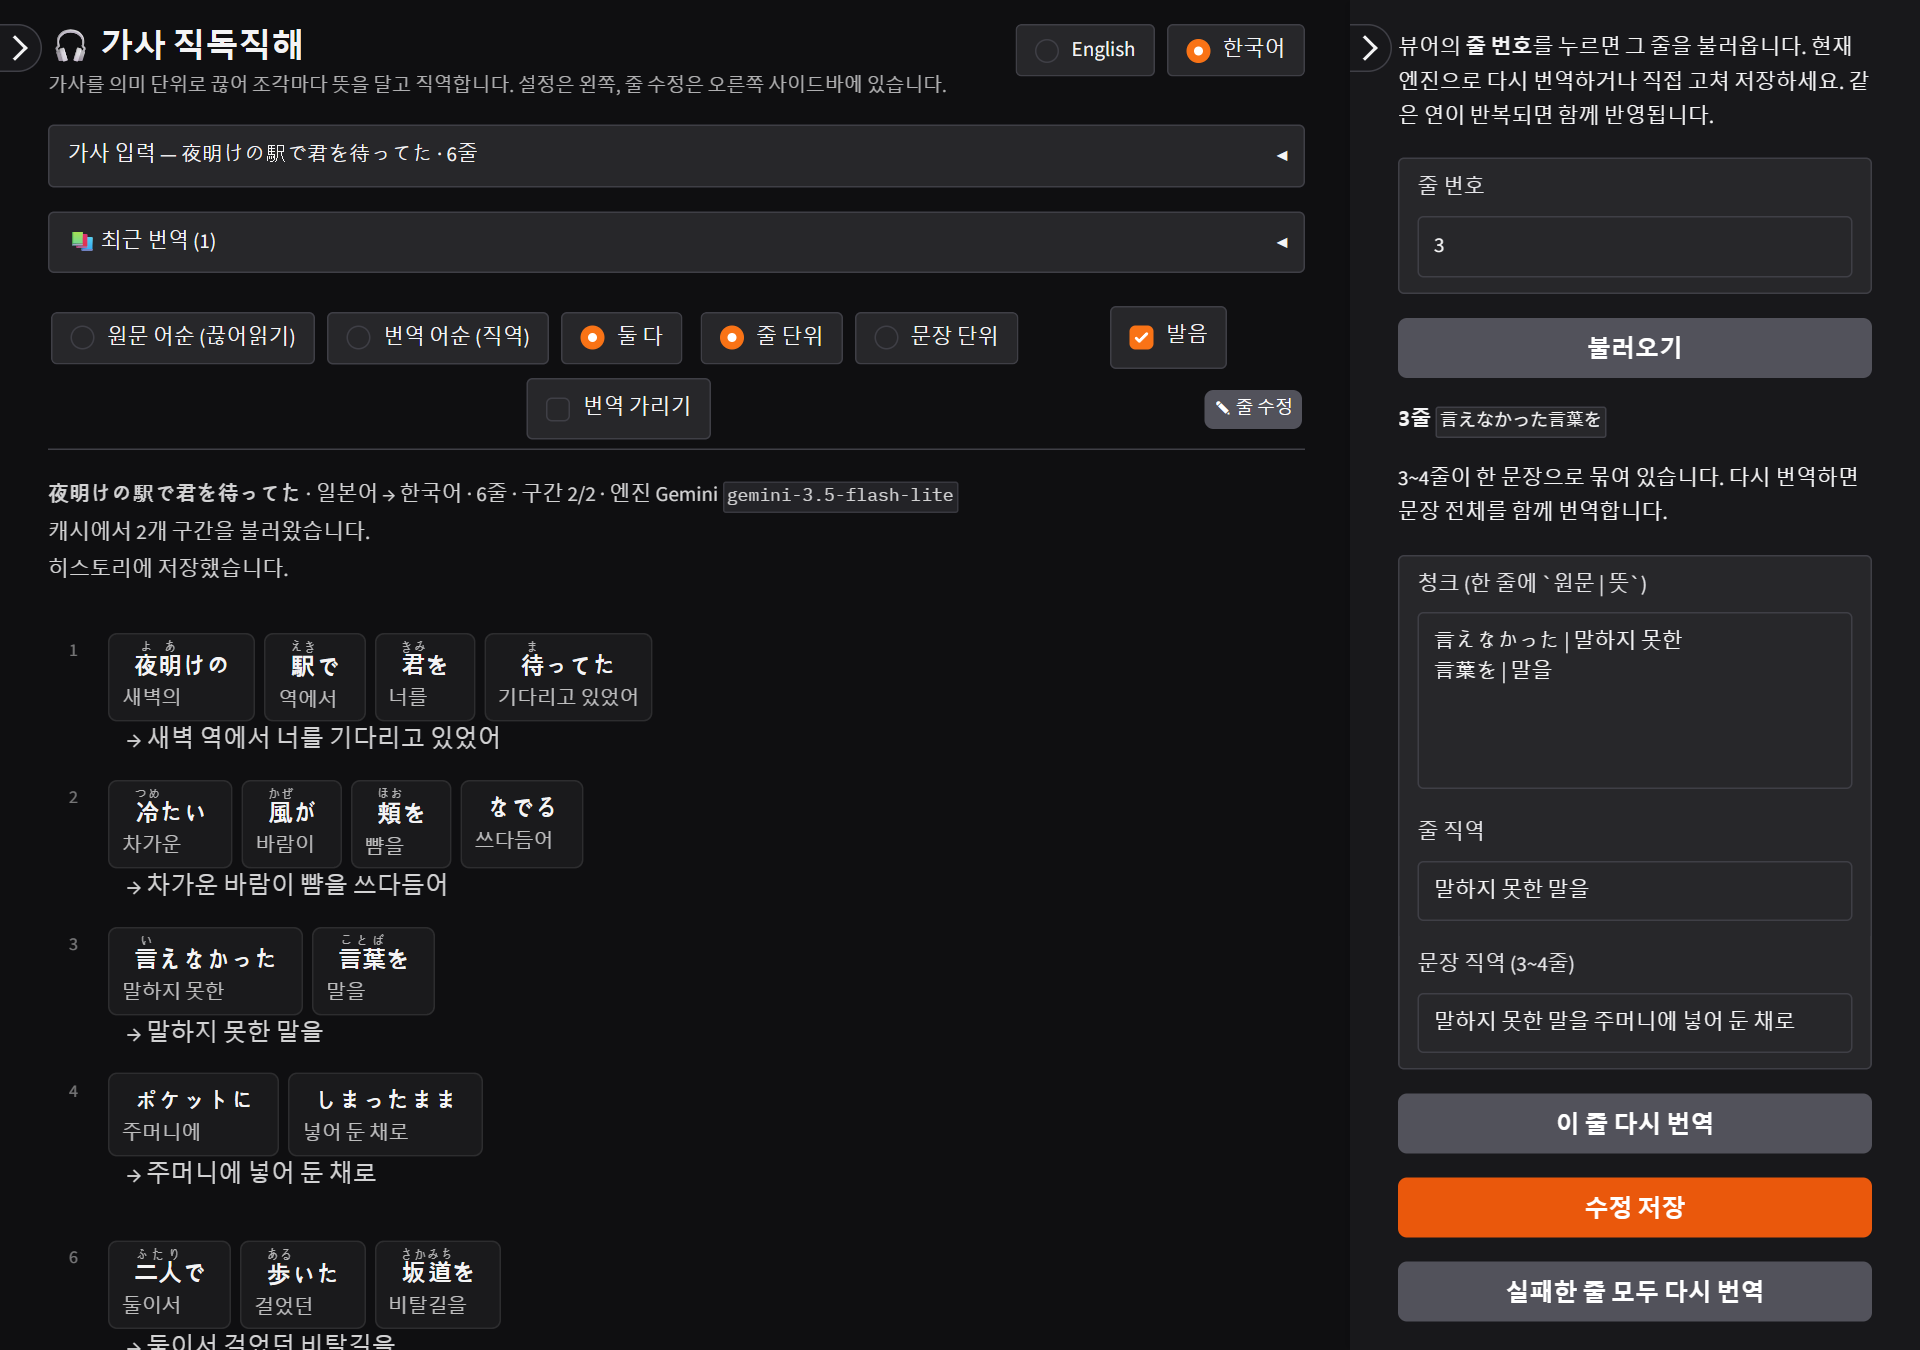
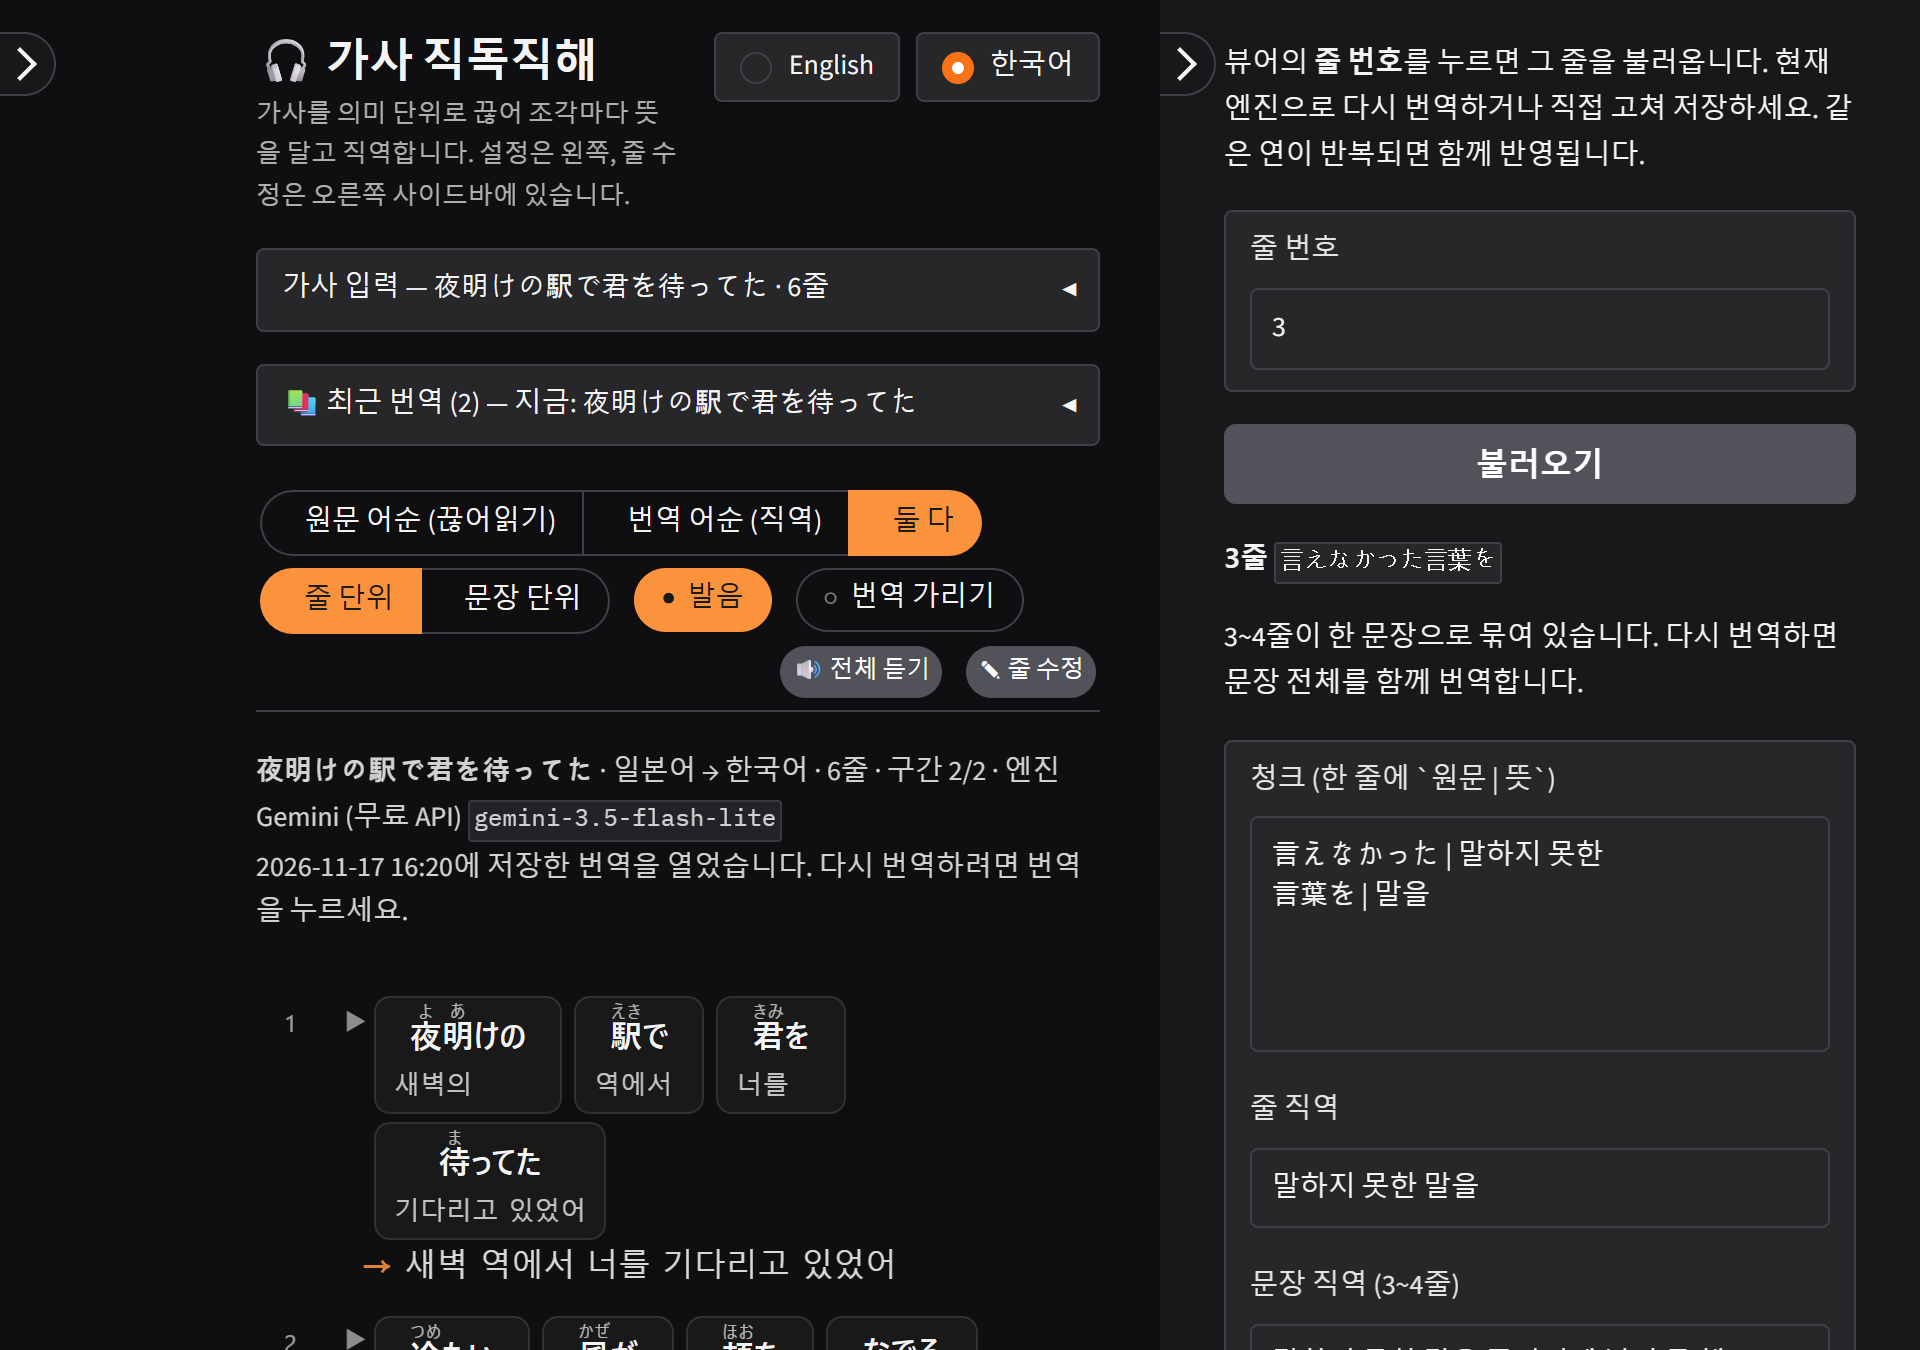
docs: 새 디자인으로 README 스크린샷 다시 찍기, 다시 찍는 도구 추가
- tools/screenshots/make_history.py: 엔진을 부르지 않고 데모 히스토리와 내보내기 화면을 만든다
- tools/screenshots/capture.mjs: 헤드리스 Chrome으로 영어·한국어 화면을 찍는다(추가 패키지 없음)
- 뷰어·줄 수정·듣기·폰·내보내기 패널·모바일 HTML·곡 목록·이미지 16장 갱신

diff --git a/tools/screenshots/make_history.py b/tools/screenshots/make_history.py
@@ -1,0 +1,125 @@
+"""README 스크린샷용 데모 히스토리를 만든다 — 엔진을 부르지 않고, 직접 쓴 결과로 저장한다.
+
+가사는 이 데모를 위해 새로 쓴 문장이다. 사용:
+    python tools/screenshots/make_history.py <폴더>     (기본: exports/demo)
+<폴더>/history-en, <폴더>/history-ko 에 곡마다 JSON을 만든다. 앱은 LYRICS_HISTORY_DIR로 그 폴더를 가리킨다.
+"""
+
+from __future__ import annotations
+
+import json
+import sys
+from pathlib import Path
+
+sys.path.insert(0, str(Path(__file__).resolve().parents[2]))
+
+from lyrics_tool.backends import Backend  # noqa: E402
+from lyrics_tool.core import Translator  # noqa: E402
+from lyrics_tool.history import History  # noqa: E402
+
+MODEL = "gemini-3.5-flash-lite"
+
+# 곡: (제목, [(원문 줄, [(어구, 한국어, 영어)], 한국어 직역, 영어 직역) 또는 ""(빈 줄)], [(첫 줄, 끝 줄, 한국어, 영어)])
+SONGS = [
+    ("夜明けの駅で君を待ってた", [
+        ("夜明けの駅で君を待ってた",
+         [("夜明けの", "새벽의", "at dawn"), ("駅で", "역에서", "at the station"), ("君を", "너를", "you"),
+          ("待ってた", "기다리고 있었어", "was waiting for")],
+         "새벽 역에서 너를 기다리고 있었어", "I was waiting for you at the station at dawn"),
+        ("冷たい風が頬をなでる",
+         [("冷たい", "차가운", "cold"), ("風が", "바람이", "wind"), ("頬を", "뺨을", "my cheek"),
+          ("なでる", "쓰다듬어", "strokes")],
+         "차가운 바람이 뺨을 쓰다듬어", "A cold wind strokes my cheek"),
+        ("言えなかった言葉を",
+         [("言えなかった", "말하지 못한", "that I couldn't say"), ("言葉を", "말을", "the words")],
+         "말하지 못한 말을", "the words I couldn't say"),
+        ("ポケットにしまったまま",
+         [("ポケットに", "주머니에", "in my pocket"), ("しまったまま", "넣어 둔 채로", "still tucked away")],
+         "주머니에 넣어 둔 채로", "still tucked away in my pocket"),
+        "",
+        ("二人で歩いた坂道を",
+         [("二人で", "둘이서", "together"), ("歩いた", "걸었던", "we walked"), ("坂道を", "비탈길을", "the slope")],
+         "둘이서 걸었던 비탈길을", "the slope we walked together"),
+        ("今日はひとりで登ってく",
+         [("今日は", "오늘은", "today"), ("ひとりで", "혼자서", "alone"), ("登ってく", "올라가", "I climb")],
+         "오늘은 혼자서 올라가", "today I climb it alone"),
+    ], [(3, 4, "말하지 못한 말을 주머니에 넣어 둔 채로", "with the words I couldn't say still tucked away in my pocket"),
+        (6, 7, "둘이서 걸었던 비탈길을 오늘은 혼자서 올라가", "today I climb alone the slope we walked together")]),
+    ("放課後の窓に", [
+        ("放課後の窓に夕日が落ちて",
+         [("放課後の", "방과 후의", "after school"), ("窓に", "창문에", "on the window"), ("夕日が", "석양이", "the evening sun"),
+          ("落ちて", "지고", "falls, and")],
+         "방과 후 창문에 석양이 지고", "The evening sun falls on the window after school"),
+        ("黒板の文字が少しにじむ",
+         [("黒板の", "칠판의", "on the blackboard"), ("文字が", "글씨가", "the letters"), ("少し", "조금", "a little"),
+          ("にじむ", "번진다", "blur")],
+         "칠판 글씨가 조금 번진다", "The letters on the blackboard blur a little"),
+        ("また明日って手を振った",
+         [("また明日って", "내일 또 보자며", "saying \"see you tomorrow\""), ("手を", "손을", "my hand"),
+          ("振った", "흔들었다", "I waved")],
+         "내일 또 보자며 손을 흔들었다", "I waved, saying \"see you tomorrow\""),
+    ], []),
+]
+
+
+class ScriptedBackend(Backend):
+    """프롬프트의 [INPUT] 줄을 SONGS에서 찾아 그대로 답한다."""
+
+    def __init__(self, target: str):
+        super().__init__(model=MODEL)
+        self.target = target
+        self.lines, self.sents = {}, []
+        for _, rows, sents in SONGS:
+            for row in rows:
+                if row:
+                    src, chunks, ko, en = row
+                    self.lines[src] = ([(s, k if target == "ko" else e) for s, k, e in chunks], ko if target == "ko" else en)
+            texts = [r[0] if r else "" for r in rows]
+            self.sents += [(texts[a - 1], texts[b - 1], ko if target == "ko" else en) for a, b, ko, en in sents]
+
+    def chat(self, system, user):
+        body = user.split("[INPUT]\n", 1)[1].split("\n\n[NOTE]")[0]
+        lines = [(int(a), b) for a, b in (l.split(": ", 1) for l in body.splitlines())]
+        by_text = {t: i for i, t in lines}
+        out = [{"i": i, "chunks": [{"s": s, "t": g} for s, g in self.lines[t][0]], "tr": self.lines[t][1]}
+               for i, t in lines]
+        sents = [{"from": by_text[a], "to": by_text[b], "tr": tr} for a, b, tr in self.sents
+                 if a in by_text and b in by_text]
+        return json.dumps({"lines": out, "sentences": sents}, ensure_ascii=False)
+
+
+def main(folder: Path) -> None:
+    from lyrics_tool.export import song_meta
+    from lyrics_tool.i18n import t
+    from lyrics_tool.render import FIT_JS, MODE_BOTH, MODE_SOURCE, UNIT_LINE, ViewOptions, to_image_html, to_mobile_html
+
+    files = folder / "files"
+    files.mkdir(parents=True, exist_ok=True)
+    for target in ("en", "ko"):
+        h = History(folder / f"history-{target}")
+        docs = []
+        for i, (title, rows, _) in enumerate(SONGS):
+            lyrics = "\n".join(r[0] if r else "" for r in rows)
+            doc = Translator(ScriptedBackend(target), target=target).translate(lyrics, "ja")
+            doc.title = title
+            # 첫 곡이 목록 맨 위에 오도록 저장 시각을 뒤로 민다
+            assert h.save(doc, "gemini", MODEL, 8, saved=1_794_900_000 - i * 600), title
+            docs.append(doc)
+        print(target, [e.title for e in h.list()])
+
+        # 내보내기 화면용: 두 곡 모바일 HTML, 이미지로 그릴 조각(앱의 IMAGE_JS처럼 FIT_JS로 폭을 맞춘다)
+        ui = target
+        opts = ViewOptions(ui=ui)
+        book = t(ui, "many_book", n=len(docs), date="2026-11-19")
+        (files / f"book-{ui}.html").write_text(
+            to_mobile_html([(d, song_meta(d, MODE_BOTH, UNIT_LINE, ui, view=False)) for d in docs], MODE_BOTH,
+                           UNIT_LINE, opts, book), encoding="utf-8")
+        img = to_image_html(docs[0], MODE_SOURCE, UNIT_LINE, opts, docs[0].title,
+                            song_meta(docs[0], MODE_SOURCE, UNIT_LINE, ui), "phone", dark=True)
+        (files / f"image-{ui}.html").write_text(
+            f'<!doctype html><html><head><meta charset="utf-8"></head><body style="margin:0;background:#161616">{img}'
+            f"<script>({FIT_JS})(document)</script></body></html>", encoding="utf-8")
+
+
+if __name__ == "__main__":
+    main(Path(sys.argv[1] if len(sys.argv) > 1 else "exports/demo"))
